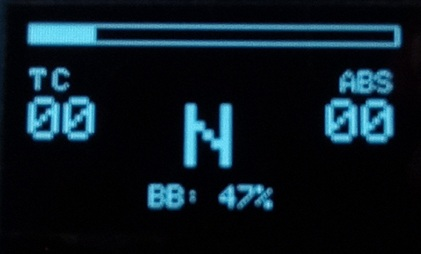
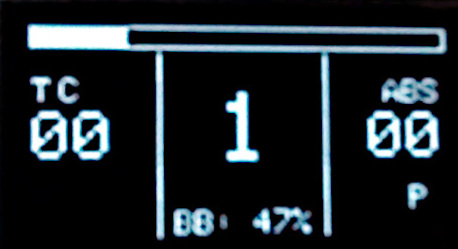
Improve OLED telemetry display

diff --git a/src/common/SimWheelUI_gfx.cpp b/src/common/SimWheelUI_gfx.cpp
@@ -169,6 +169,7 @@ void OledTelemetry128x64::onTelemetryData(const TelemetryData *pTelemetryData)
 
     if (pTelemetryData)
     {
+        // Determine flashing
         if (_impl->flash && !pTelemetryData->powertrain.shiftLight2)
         {
             // Stop flashing
@@ -179,7 +180,13 @@ void OledTelemetry128x64::onTelemetryData(const TelemetryData *pTelemetryData)
             _impl->flash = pTelemetryData->powertrain.shiftLight2;
         uint8_t aux;
 
+        // Clear the frame buffer
         _impl->frame.fillScreen(0);
+
+        // Create 3 vertical sections
+        _impl->frame.drawFastVLine(38, 8, 56, 0xFFFF);
+        _impl->frame.drawFastVLine(89, 8, 56, 0xFFFF);
+
         // Draw RPM bar
         aux = map(pTelemetryData->powertrain.rpmPercent, 0, 100, 0, 128);
         _impl->frame.drawRect(0, 0, 128, 7, 0xFFFF);
@@ -189,10 +196,10 @@ void OledTelemetry128x64::onTelemetryData(const TelemetryData *pTelemetryData)
         _impl->frame.setTextSize(3);
         aux = (pTelemetryData->powertrain.shiftLight1) ? 0 : 0xFF;
         if (pTelemetryData->powertrain.shiftLight1)
-            _impl->frame.fillRect(52, 25, 21, 27, 0xFFFF);
+            _impl->frame.fillRect(53, 17, 22, 27, 0xFFFF);
         _impl->frame.drawChar(
-            55,
-            28,
+            56,
+            20,
             pTelemetryData->powertrain.gear,
             aux,
             !aux, 3);
@@ -244,9 +251,19 @@ void OledTelemetry128x64::onTelemetryData(const TelemetryData *pTelemetryData)
 
         // Draw fuel warning
         if (pTelemetryData->ecu.lowFuelAlert)
-            _impl->frame.drawChar(61, 10, 'F', 0xFF, 0, 1);
+        {
+            // Text size: 1
+            _impl->frame.drawChar(11, 49, 'F', 0xFF, 0, 1);
+        }
+
+        // Draw pit limiter witness
+        if (pTelemetryData->ecu.pitLimiter)
+        {
+            // Text size: 1
+            _impl->frame.drawChar(116, 49, 'P', 0xFF, 0, 1);
+        }
     }
-    else
+    else if (_impl->connected) // && !pTelemetryData
     {
         _impl->frame.fillScreen(0);
         stopFlashing();

diff --git a/doc/hardware/ui/TelemetryData_en.md b/doc/hardware/ui/TelemetryData_en.md
@@ -15,7 +15,7 @@ Follow the links for an in-depth explanation:
 - [Monochrome OLED 128x64 telemetry display](./MonochromeOLED/MonochromeOLED_en.md)
 
   A monochrome OLED with 128x64 pixels showing RPM bar,
-  gear, TC, ABS and brake bias.
+  gear, TC, ABS, brake bias, fuel and pit limiter alerts.
 
 Any telemetry display is potentially able to display notifications
 (such as connection or low battery),

diff --git a/doc/hardware/ui/MonochromeOLED/MonochromeOLED_en.md b/doc/hardware/ui/MonochromeOLED/MonochromeOLED_en.md
@@ -9,6 +9,7 @@ It will show the following information thanks to SimHub:
 - RPM bar.
 - Current gear.
 - Low fuel alert.
+- Pit limiter alert.
 - TC and ABS engagement alerts.
 - Current TC and ABS settings.
 - Current brake bias (BB).
